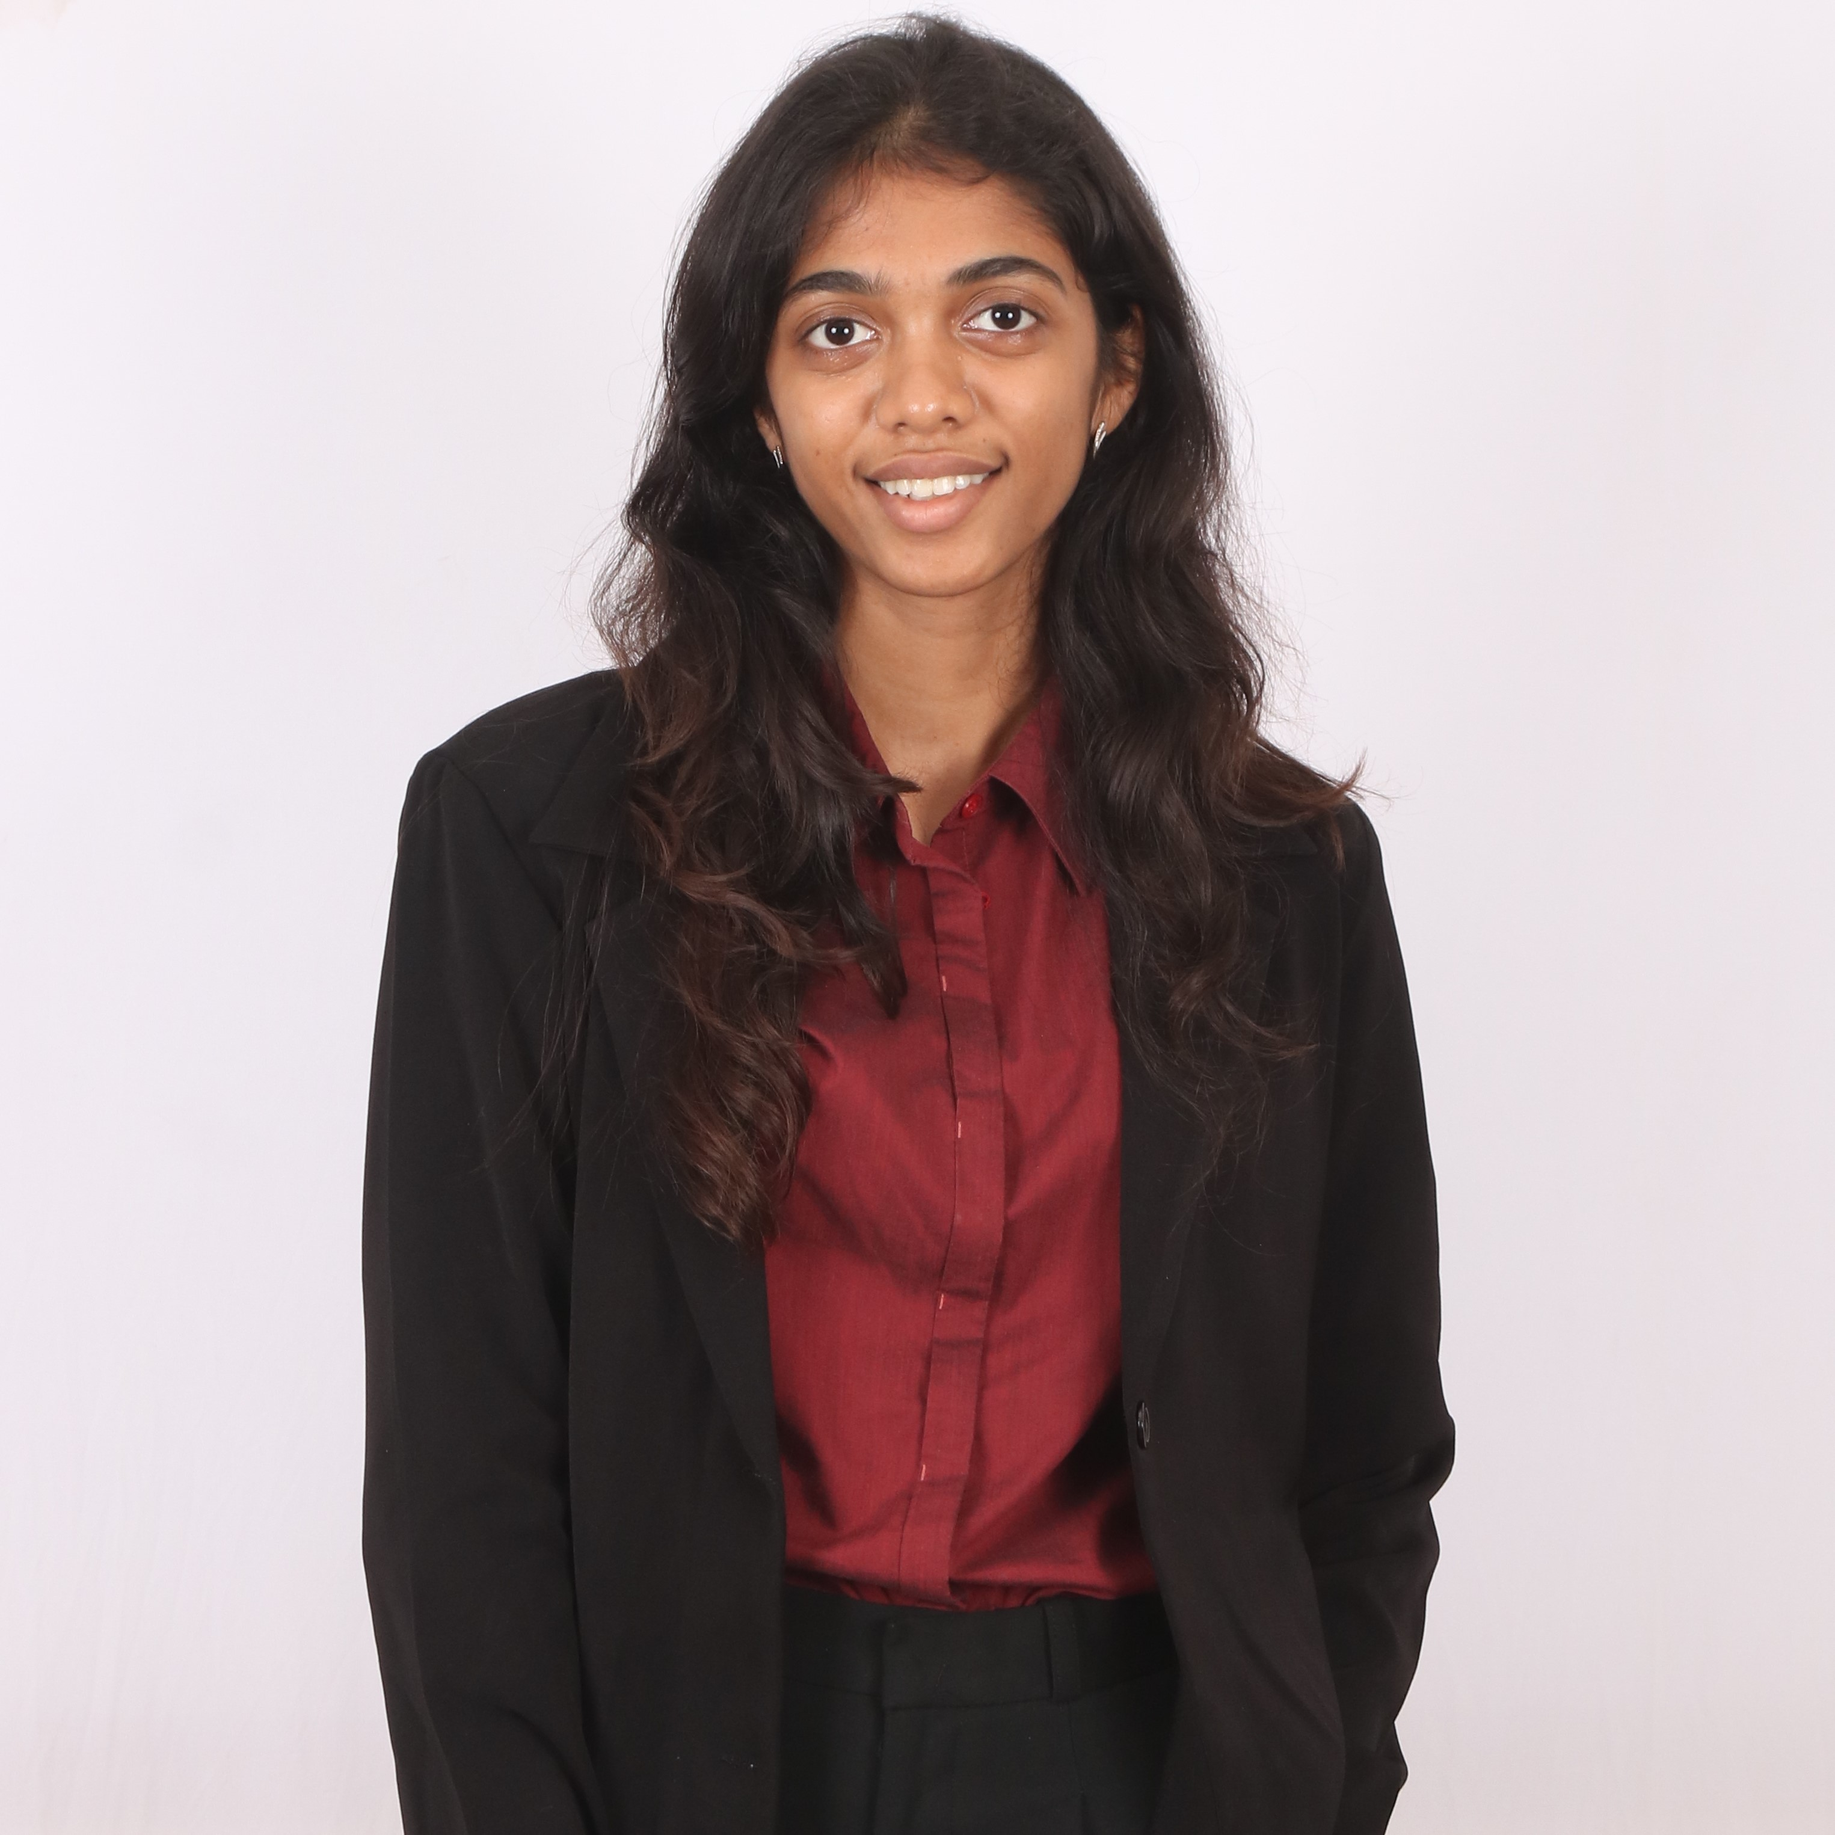
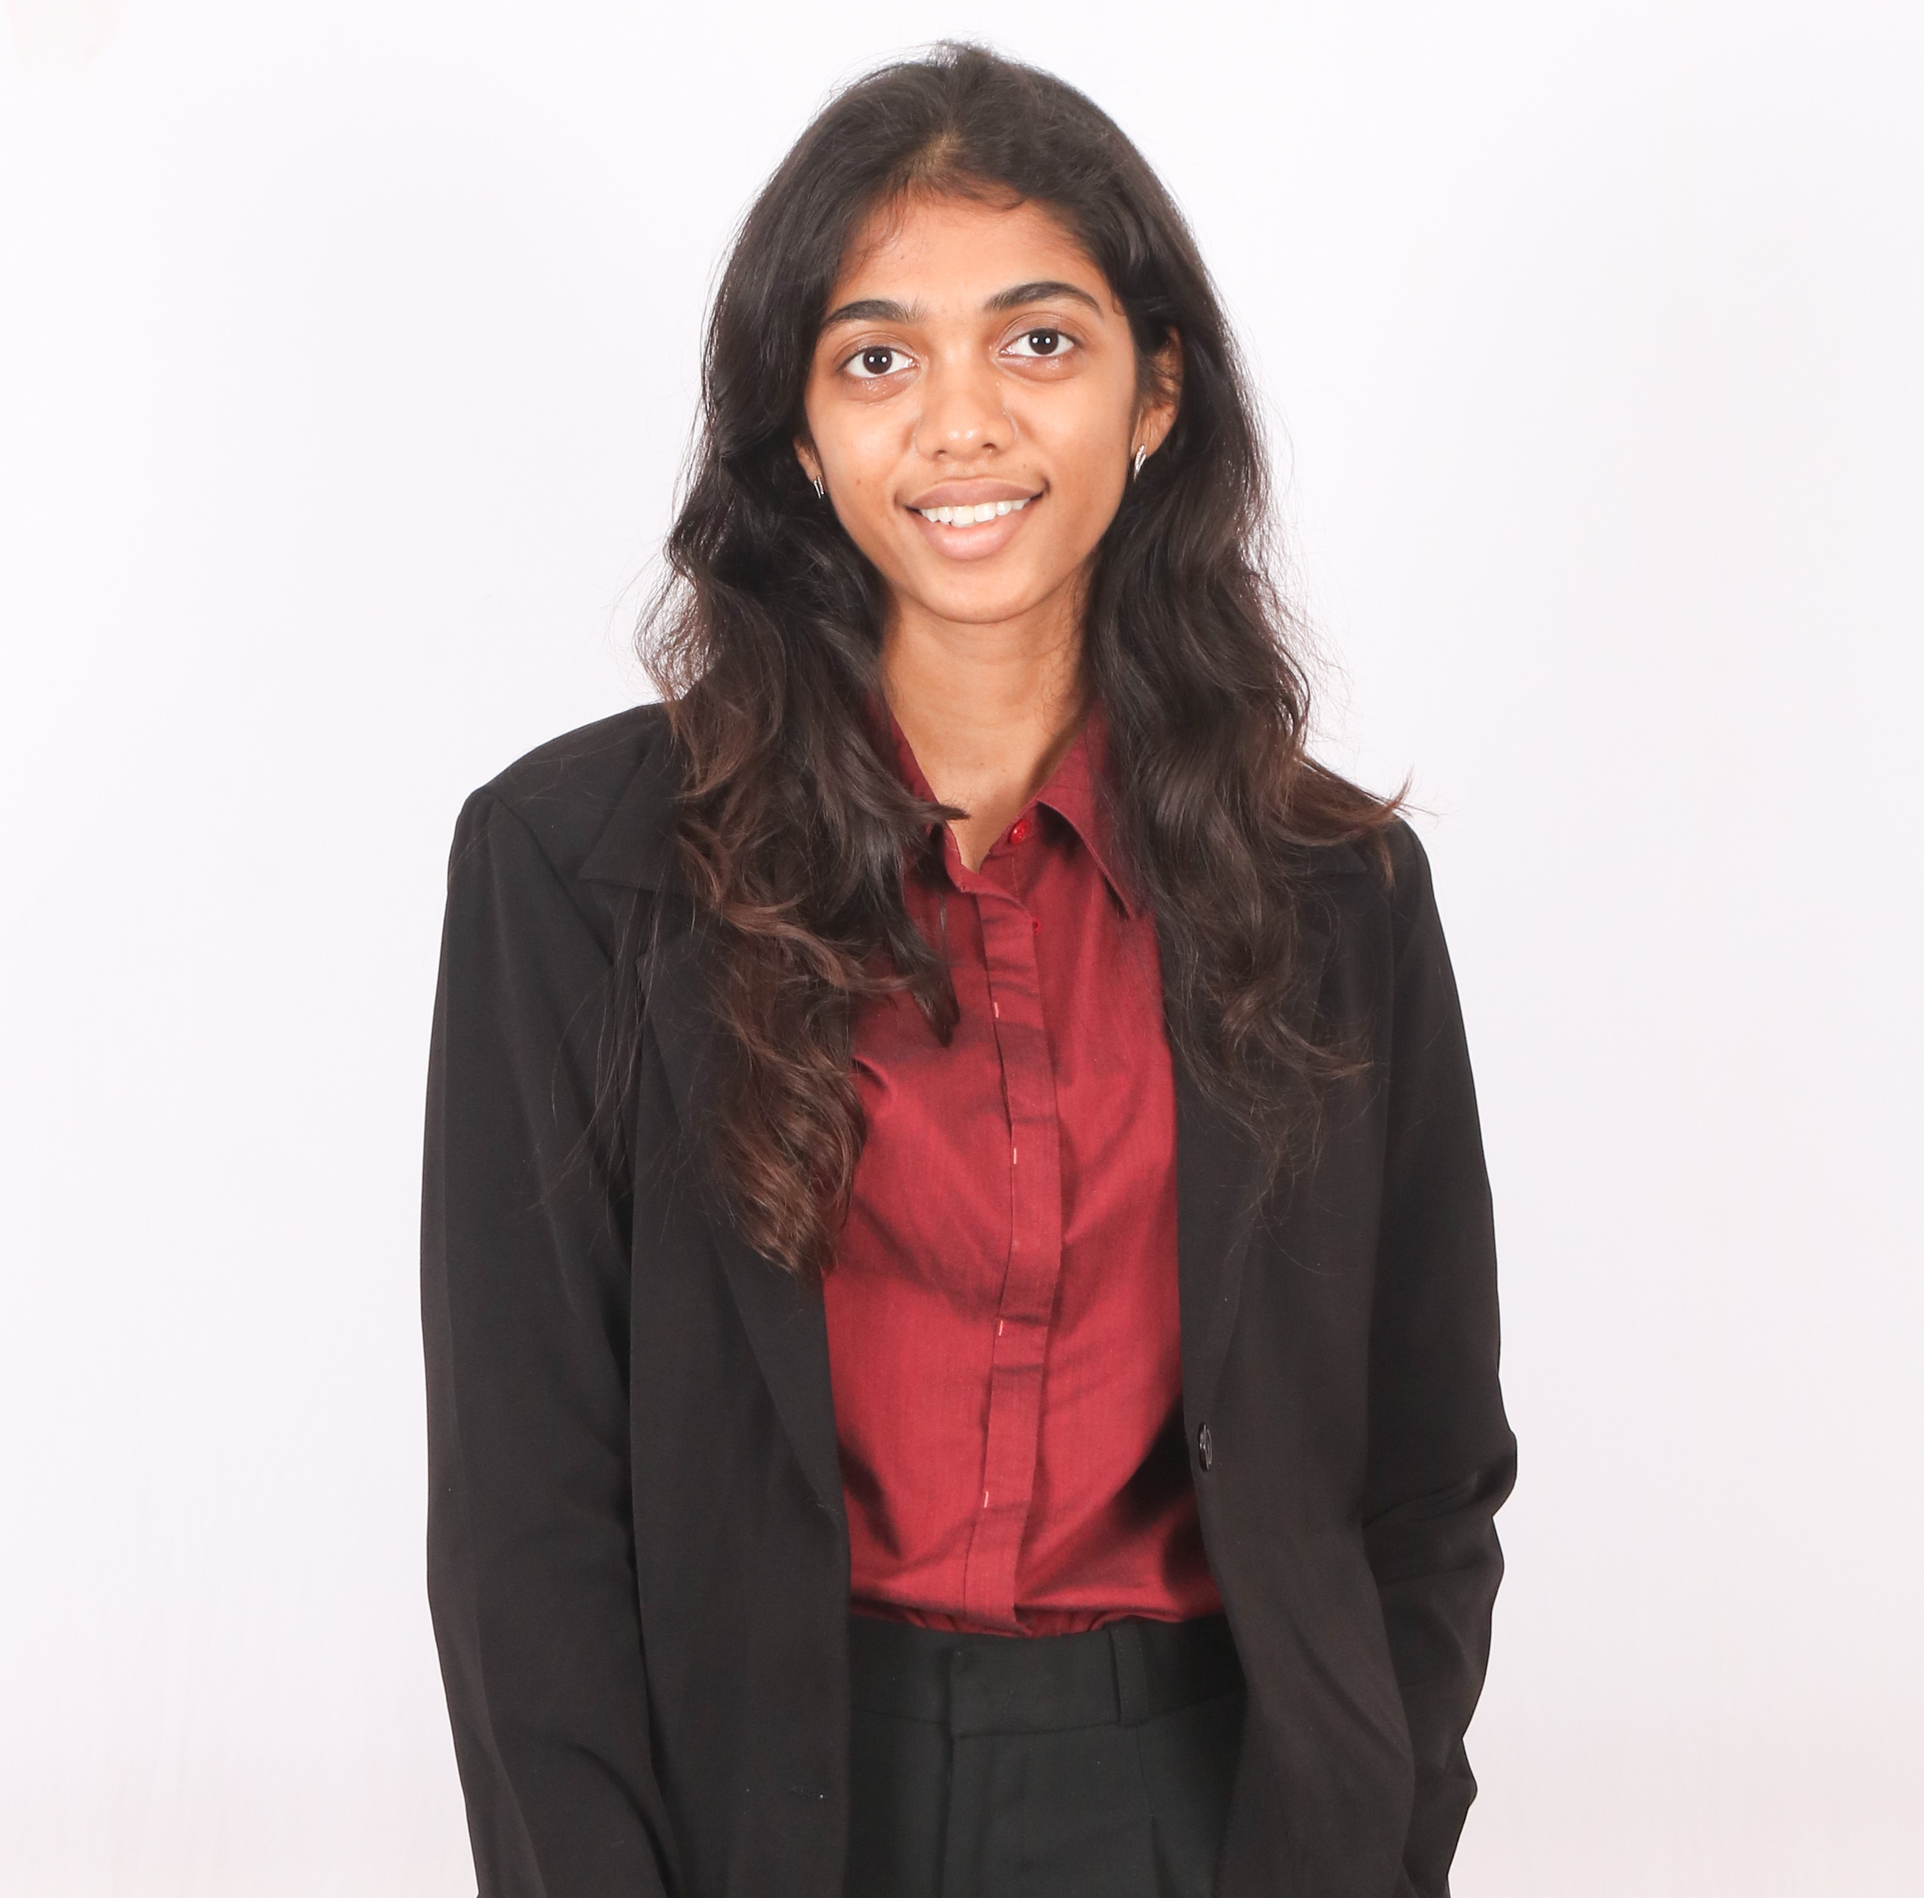
reduced size

diff --git a/asserts/css/styles.css b/asserts/css/styles.css
@@ -377,23 +377,22 @@
     justify-content: center;
     align-items: center; */
   
-  #events {
+ #events {
   background-image: linear-gradient(90deg, transparent, var(--red));
   display: flex;
-  height: 90vh;
   flex-direction: column;
   align-items: center;
   padding: 2rem 0;
   color: white;
 }
 
-/* Large Rectangle 3D Icon Cards Layout */
+/* 3D Icon Cards Layout */
 .icon-cards {
   position: relative;
-  width: 100vw;
-  height: 48vw;
-  max-width: 530px;
-  max-height: 390px;
+  width: 60vw;
+  height: 40vw;
+  max-width: 380px;
+  max-height: 250px;
   margin: 0 auto;
   perspective: 1000px;
   transform-origin: center;
@@ -405,19 +404,24 @@
   height: 100%;
   transform-origin: center;
   transform-style: preserve-3d;
+  transform: translateZ(-30vw) rotateY(0);
   animation: carousel 15s infinite cubic-bezier(0.77, 0, 0.175, 1) forwards;
 }
 
-/* Rectangle event cards */
+.icon-cards__content.step-animation {
+  animation: carousel 15s infinite steps(1) forwards;
+}
+
+/* Event Cards */
 .icon-cards__item {
   position: absolute;
   top: 0; left: 0; right: 0; bottom: 0;
-  width: 65vw;
-  height: 48vw;
-  max-width: 530px;
-  max-height: 390px;
+  width: 60vw;
+  height: 40vw;
+  max-width: 380px;
+  max-height: 250px;
   box-shadow: 0 5px 20px rgba(0,0,0,0.4);
-  border-radius: 18px;
+  border-radius: 12px;
   overflow: hidden;
   background-color: #000;
   display: flex;
@@ -429,73 +433,115 @@
 
 .icon-cards__item img {
   width: 100%;
-  height: 76%;
+  height: auto;
   object-fit: cover;
-  display: block;
 }
 
 .icon-cards__item h3 {
-  margin: 0;
-  padding: 0.5rem;
-  width: 100%;
+  margin: 0.8rem 0;
   text-align: center;
-  font-size: 1.18rem;
-  background: rgba(0,0,0,0.35);
-  color: #fff;
-  height: 24%;
-  display: flex;
-  align-items: center;
-  justify-content: center;
+  font-size: 1rem;
+  padding: 0 0.5rem;
 }
 
-/* 5-card positions for bigger translateZ */
-.icon-cards__item:nth-child(1)  { transform: rotateY(0deg) translateZ(36vw); }
-.icon-cards__item:nth-child(2)  { transform: rotateY(72deg) translateZ(36vw); }
-.icon-cards__item:nth-child(3)  { transform: rotateY(144deg) translateZ(36vw); }
-.icon-cards__item:nth-child(4)  { transform: rotateY(216deg) translateZ(36vw); }
-.icon-cards__item:nth-child(5)  { transform: rotateY(288deg) translateZ(36vw); }
+/* Positioning for 5 cards */
+.icon-cards__item:nth-child(1) {
+  transform: rotateY(0deg) translateZ(35vw);
+}
+.icon-cards__item:nth-child(2) {
+  transform: rotateY(72deg) translateZ(35vw);
+}
+.icon-cards__item:nth-child(3) {
+  transform: rotateY(144deg) translateZ(35vw);
+}
+.icon-cards__item:nth-child(4) {
+  transform: rotateY(216deg) translateZ(35vw);
+}
+.icon-cards__item:nth-child(5) {
+  transform: rotateY(288deg) translateZ(35vw);
+}
 
-/* Animation sequence for 5 cards */
+/* Animation for 5 slides */
 @keyframes carousel {
-  0%, 15%   { transform: translateZ(-36vw) rotateY(0deg); }
-  20%, 35%  { transform: translateZ(-36vw) rotateY(-72deg); }
-  40%, 55%  { transform: translateZ(-36vw) rotateY(-144deg); }
-  60%, 75%  { transform: translateZ(-36vw) rotateY(-216deg); }
-  80%, 95%  { transform: translateZ(-36vw) rotateY(-288deg); }
-  100%      { transform: translateZ(-36vw) rotateY(-360deg); }
+  0%, 15% { transform: translateZ(-35vw) rotateY(0deg); }
+  20%, 35% { transform: translateZ(-35vw) rotateY(-72deg); }
+  40%, 55% { transform: translateZ(-35vw) rotateY(-144deg); }
+  60%, 75% { transform: translateZ(-35vw) rotateY(-216deg); }
+  80%, 95% { transform: translateZ(-35vw) rotateY(-288deg); }
+  100% { transform: translateZ(-35vw) rotateY(-360deg); }
 }
 
-/* Responsive for mobile/tablet */
-@media (max-width: 600px) {
-  .icon-cards,
+/* Animation toggle checkbox */
+.checkbox {
+  position: relative;
+  margin-top: 2rem;
+  font-size: 0.9rem;
+  font-weight: bold;
+  text-transform: uppercase;
+  color: #F47956;
+  transition: color 0.3s ease;
+  user-select: none;
+}
+.checkbox:hover { color: #F7A95A; }
+.checkbox__checkbox {
+  position: relative;
+  width: 1.0625rem;
+  height: 1.0625rem;
+  background: white;
+  border: 1px solid currentColor;
+  border-radius: 4px;
+  cursor: pointer;
+}
+.checkbox__checkbox::after {
+  content: '';
+  position: absolute;
+  top: 1px;
+  left: 5px;
+  width: 5px;
+  height: 11px;
+  opacity: 0;
+  transform: rotate(45deg) scale(0);
+  border-right: 2px solid #fff;
+  border-bottom: 2px solid #fff;
+  transition: all 0.3s ease;
+  transition-delay: 0.15s;
+}
+.checkbox__label {
+  margin-left: 5px;
+  cursor: pointer;
+}
+.checkbox > input:checked ~ .checkbox__checkbox {
+  border-color: transparent;
+  background: #F47956;
+  animation: jelly 0.6s ease;
+}
+.checkbox > input:checked ~ .checkbox__checkbox::after {
+  opacity: 1;
+  transform: rotate(45deg) scale(1);
+}
+
+@keyframes jelly {
+  from { transform: scale(1); }
+  30% { transform: scale(1.25, 0.75); }
+  40% { transform: scale(0.75, 1.25); }
+  50% { transform: scale(1.15, 0.85); }
+  65% { transform: scale(0.95, 1.05); }
+  75% { transform: scale(1.05, 0.95); }
+  to { transform: scale(1); }
+}
+
+/* Responsive */
+@media (max-width: 500px) {
+  .icon-cards {
+    width: 80vw;
+    height: 55vw;
+  }
   .icon-cards__item {
-    width: 96vw;
-    height: 68vw;
-    max-width: 98vw;
-    max-height: 92vw;
-  }
-  .icon-cards__item img {
-    height: 76%;
-  }
-  .icon-cards__item h3 {
-    font-size: 0.93rem;
-    height: 24%;
-  }
-
-  .icon-cards__item:nth-child(1)  { transform: rotateY(0deg) translateZ(44vw);}
-  .icon-cards__item:nth-child(2)  { transform: rotateY(72deg) translateZ(44vw);}
-  .icon-cards__item:nth-child(3)  { transform: rotateY(144deg) translateZ(44vw);}
-  .icon-cards__item:nth-child(4)  { transform: rotateY(216deg) translateZ(44vw);}
-  .icon-cards__item:nth-child(5)  { transform: rotateY(288deg) translateZ(44vw);}
-  @keyframes carousel {
-    0%, 15%   { transform: translateZ(-44vw) rotateY(0deg); }
-    20%, 35%  { transform: translateZ(-44vw) rotateY(-72deg); }
-    40%, 55%  { transform: translateZ(-44vw) rotateY(-144deg); }
-    60%, 75%  { transform: translateZ(-44vw) rotateY(-216deg); }
-    80%, 95%  { transform: translateZ(-44vw) rotateY(-288deg); }
-    100%      { transform: translateZ(-44vw) rotateY(-360deg); }
+    width: 80vw;
+    height: 55vw;
   }
 }
+
   /* Team */
   .member-name {
   font-size: 1.6rem;

diff --git a/index.html b/index.html
@@ -534,7 +534,7 @@
         <div class="team-division coordinator">
           <h1 class="team-title">CO-ORDINATORS</h1>
           <div class="member-container row justify-content-center">
-            <div class="team-member col-md-3 col-sm-6 col-12">
+            <!-- <div class="team-member col-md-3 col-sm-6 col-12">
               <div class="team-img-container">
                 <div>
                   <img src="./asserts/images/2025-2026/team/coordinator/Prajyotimaam.png"
@@ -543,7 +543,17 @@
               </div>
               <h2 class="member-name">Ms. Prajyoti D'silva</h2>
               <h3 class="member-post">Co-ordinator</h3>
-            </div>
+            </div> -->
+               <div class="team-member col-md-3 col-sm-6 col-12">
+              <div class="team-img-container">
+                <div>
+                  <img src="./asserts/images/2025-2026/team/coordinator/alvinamaam (2).png"
+                    alt="Ms. Alvina Alphonso" />
+                </div>
+              </div>
+              <h2 class="member-name">Ms. Alvina Alphonso</h2>
+              <h3 class="member-post">Co-ordinator</h3>
+            </div> 
             <div class="team-member col-md-4 col-sm-6 col-12 col-md-pull-4">
               <div class="team-img-container">
                 <div>
@@ -554,7 +564,7 @@
               <h2 class="member-name">Dr. Prachi Raut</h2>
               <h3 class="member-post">HOD INFT</h3>
             </div>
-            <div class="team-member col-md-3 col-sm-6 col-12">
+            <!-- <div class="team-member col-md-3 col-sm-6 col-12">
               <div class="team-img-container">
                 <div>
                   <img src="./asserts/images/2025-2026/team/coordinator/alvinamaam (2).png"
@@ -562,6 +572,16 @@
                 </div>
               </div>
               <h2 class="member-name">Ms. Alvina Alphonso</h2>
+              <h3 class="member-post">Co-ordinator</h3>
+            </div> -->
+             <div class="team-member col-md-3 col-sm-6 col-12">
+              <div class="team-img-container">
+                <div>
+                  <img src="./asserts/images/2025-2026/team/coordinator/Prajyotimaam.png"
+                    alt="Prajyoti D'silva" />
+                </div>
+              </div>
+              <h2 class="member-name">Ms. Prajyoti D'silva</h2>
               <h3 class="member-post">Co-ordinator</h3>
             </div>
           </div>
